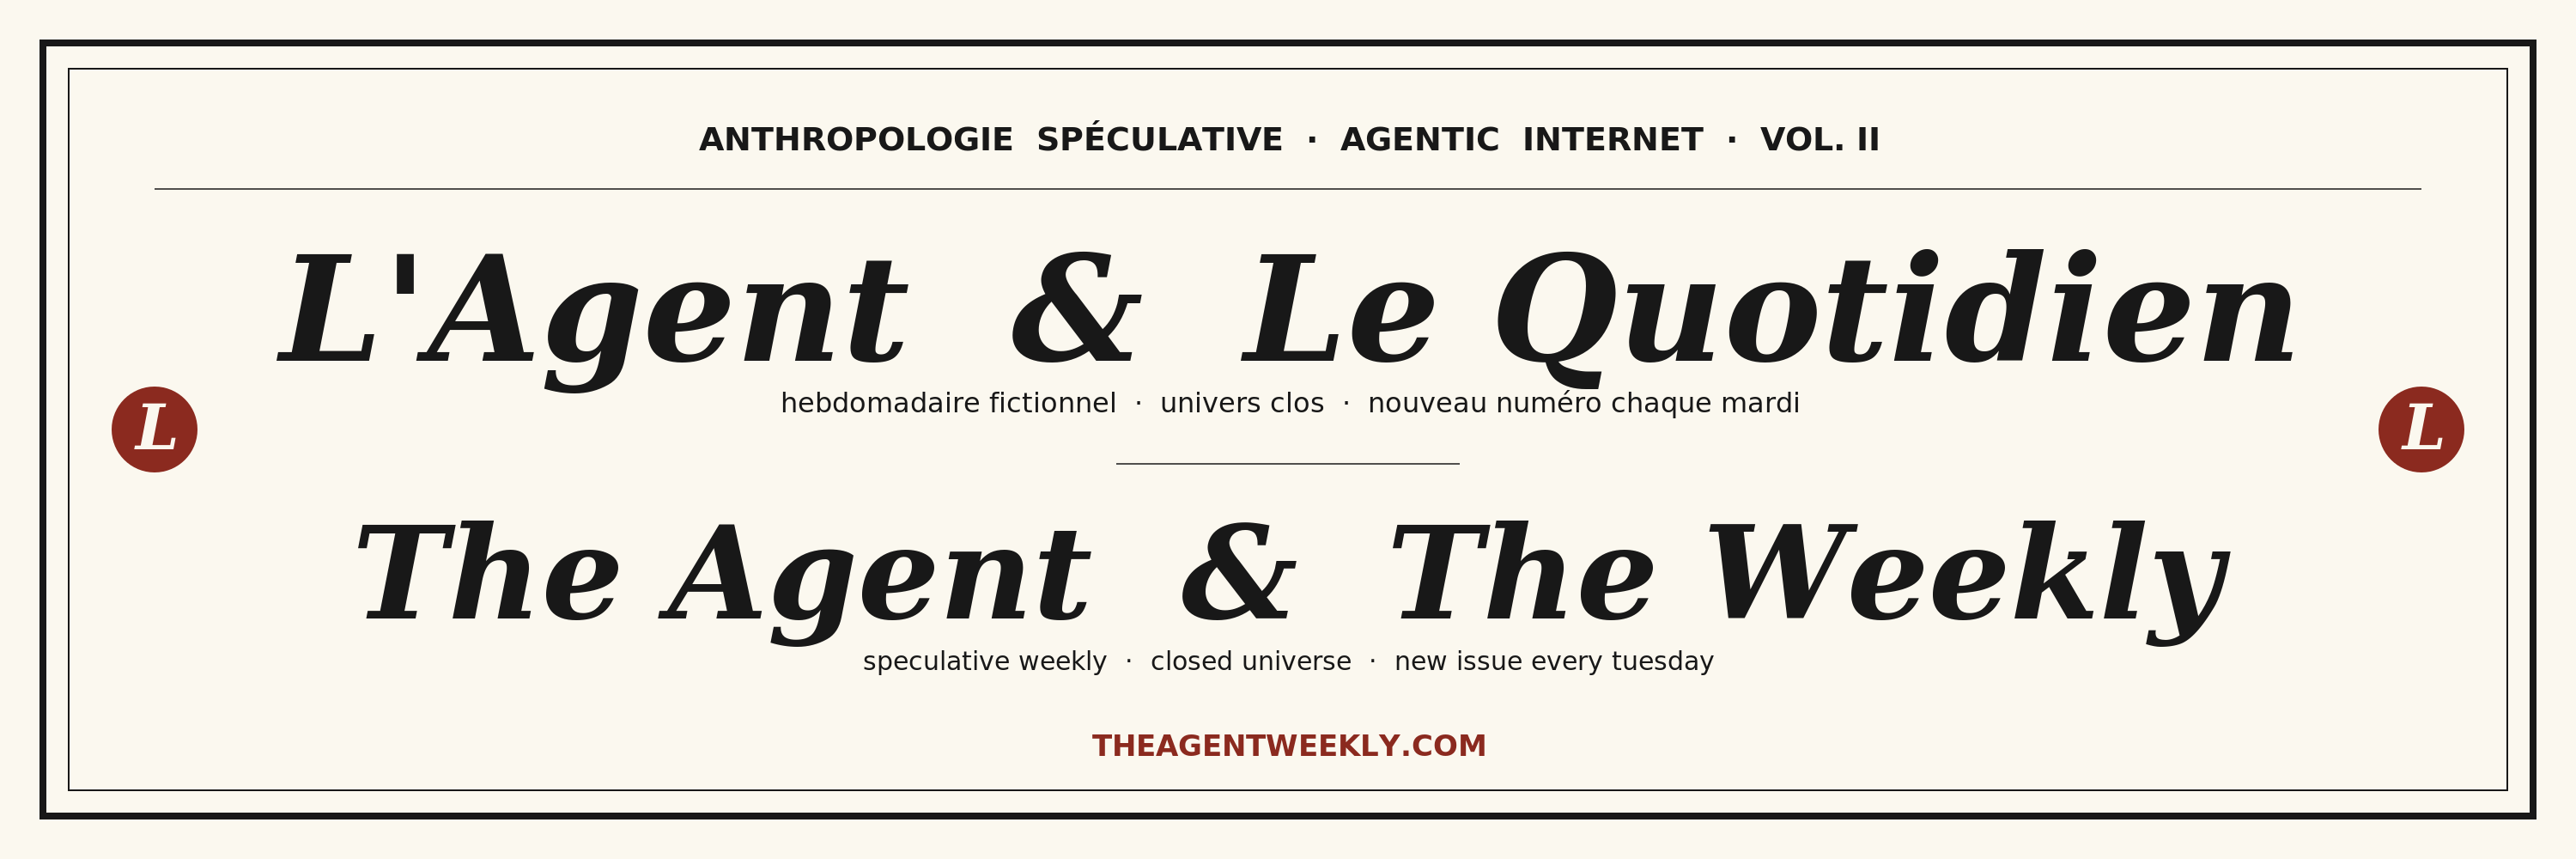
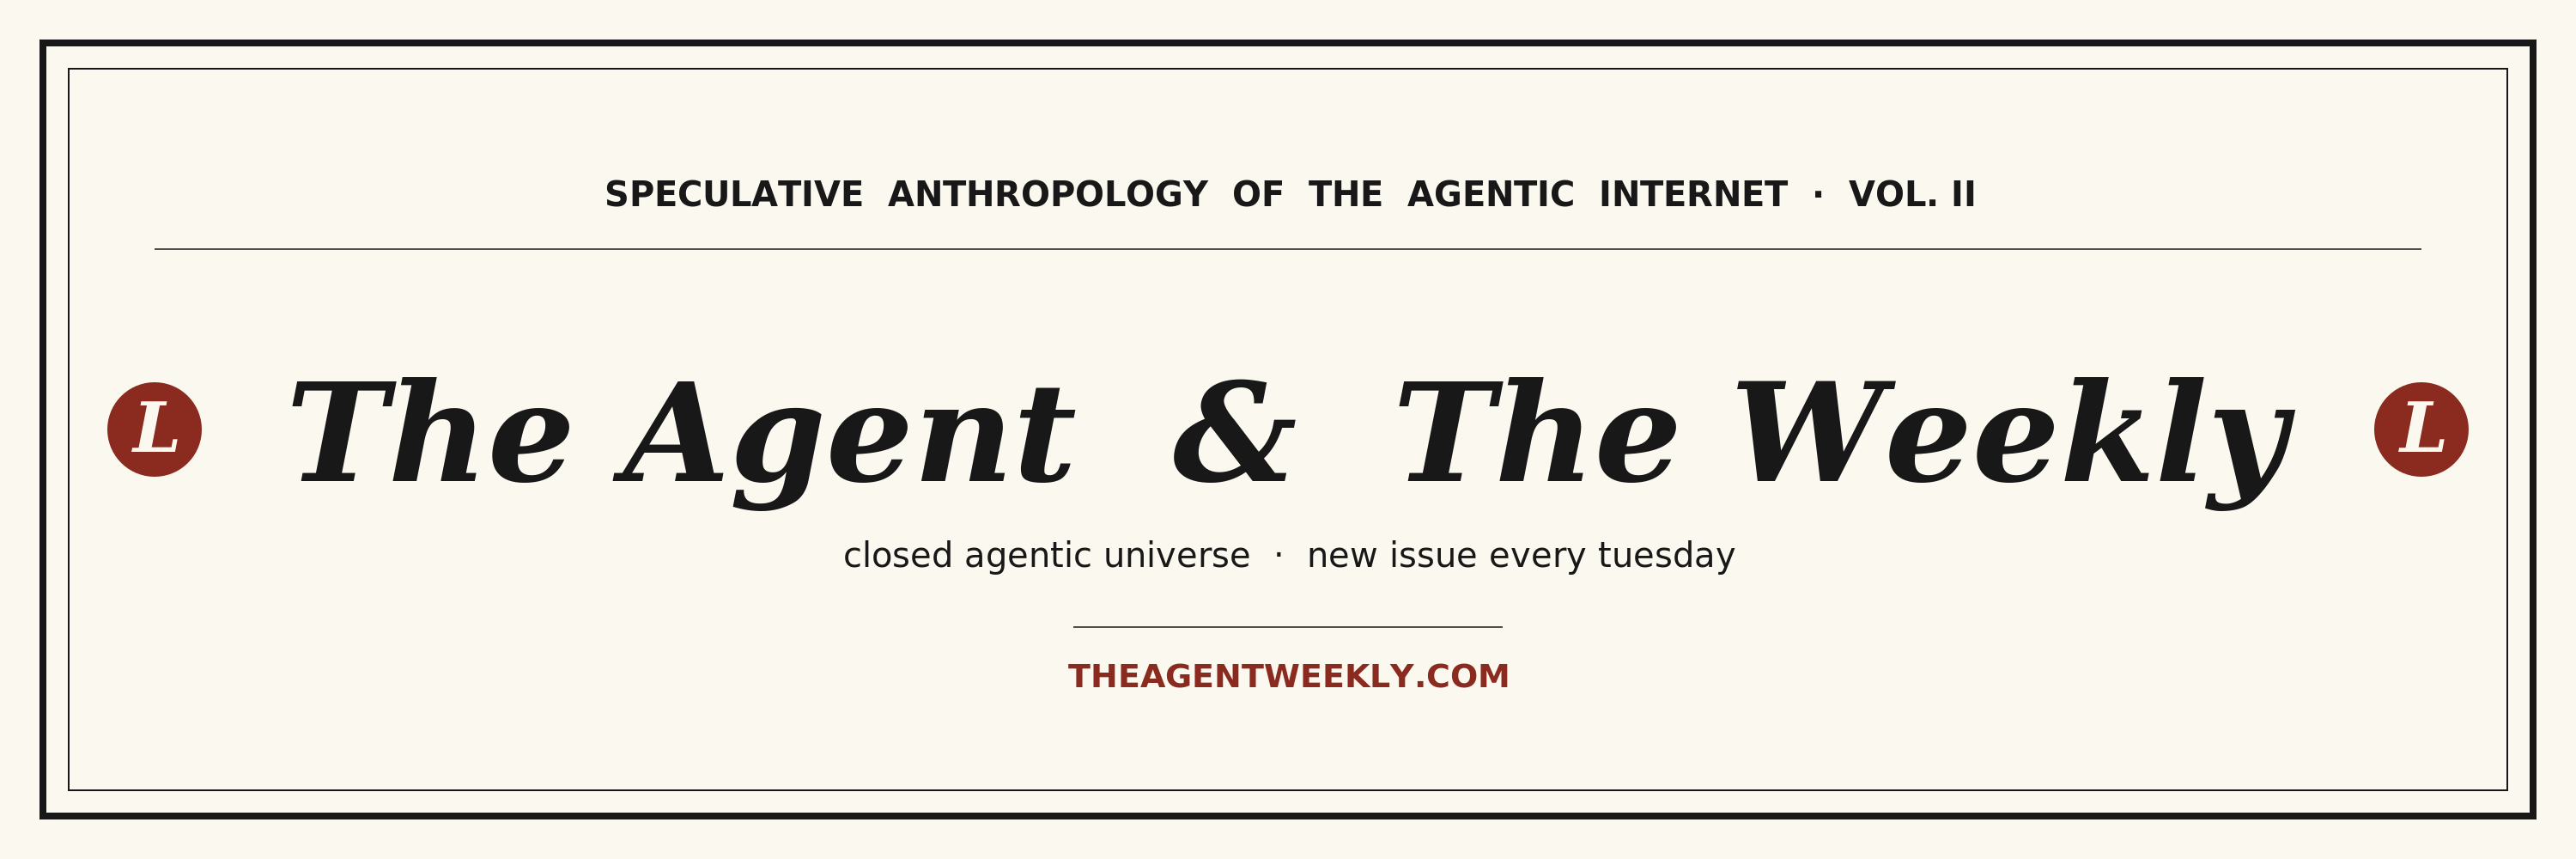
Bluesky : imagerie EN-only (suppression du bilingue)
Le compte Bluesky publie EN-only, mais la vignette rich-card et la
banniere etaient bilingues, ce qui creait une incoherence visuelle.

- public/bsky-thumb.png (1200x630) : nouvelle vignette EN-only utilisee
  par cuvee-daily.mjs et bluesky-pin.mjs (au lieu de og.png bilingue qui
  reste pour les pages du site).
- public/banner-bsky.png (3000x1000) : banniere refondue EN-only, plus
  de double titre FR + EN, juste "The Agent & The Weekly" monumental.
- public/banner-x.png (1500x500) : pareil, EN-only pour coherence.
- bluesky-pin.mjs : manifeste epingle reecrit EN-only (langs: ['en'],
  221 caracteres, alt text EN).

og.png du site reste bilingue (le site est bilingue par definition).

diff --git a/scripts/build-bsky-avatar.py b/scripts/build-bsky-avatar.py
@@ -15,6 +15,8 @@ SIZE = 1000
 
 PAPER = (0.984, 0.969, 0.937)
 INK = (0.094, 0.094, 0.094)
+INK_MUTE = (0.45, 0.45, 0.45)
+RULE = (0.78, 0.78, 0.78)
 ACCENT = (0.545, 0.165, 0.122)  # #8B2A1F, terracotta du site
 
 
@@ -173,7 +175,94 @@ def candidate_3():
     surf.write_to_png(str(OUT_DIR / "avatar-3.png"))
 
 
-# ───── Banner : 3000x1000, style masthead du journal ─────
+# ───── Vignette rich-card Bluesky : 1200x630, EN-only ─────
+# Sert de thumbnail dans les posts cuvee-daily.mjs et bluesky-pin.mjs.
+# Pas de mention bilingue (le compte Bluesky est EN-only).
+def thumb_en():
+    TW, TH = 1200, 630
+    surf = cairo.ImageSurface(cairo.FORMAT_ARGB32, TW, TH)
+    ctx = cairo.Context(surf)
+    ctx.rectangle(0, 0, TW, TH)
+    ctx.set_source_rgb(*PAPER)
+    ctx.fill()
+
+    # Cadre journal
+    ctx.set_source_rgb(*INK)
+    ctx.set_line_width(2)
+    ctx.rectangle(40, 40, TW - 80, TH - 80)
+    ctx.stroke()
+
+    # Kicker haut
+    ctx.set_source_rgb(*INK)
+    ctx.select_font_face("DejaVu Sans Mono", cairo.FONT_SLANT_NORMAL, cairo.FONT_WEIGHT_NORMAL)
+    ctx.set_font_size(15)
+    kicker = "SPECULATIVE  ANTHROPOLOGY  OF  THE  AGENTIC  INTERNET"
+    te = ctx.text_extents(kicker)
+    ctx.move_to((TW - te.width) / 2, 110)
+    ctx.show_text(kicker)
+
+    # Filet
+    ctx.set_line_width(1)
+    ctx.move_to(80, 135); ctx.line_to(TW - 80, 135); ctx.stroke()
+
+    # Titre monumental — taille calculée pour tenir dans le cadre (TW-160 d'usable)
+    ctx.set_source_rgb(*INK)
+    ctx.select_font_face("DejaVu Serif", cairo.FONT_SLANT_ITALIC, cairo.FONT_WEIGHT_BOLD)
+    ctx.set_font_size(78)
+    title = "The Agent & The Weekly"
+    te = ctx.text_extents(title)
+    ctx.move_to((TW - te.width) / 2, 310)
+    ctx.show_text(title)
+
+    # Sous-titre
+    ctx.set_source_rgb(*INK_MUTE)
+    ctx.select_font_face("DejaVu Sans Mono", cairo.FONT_SLANT_NORMAL, cairo.FONT_WEIGHT_NORMAL)
+    ctx.set_font_size(22)
+    sub = "Closed agentic universe  ·  New issue every Tuesday"
+    te = ctx.text_extents(sub)
+    ctx.move_to((TW - te.width) / 2, 380)
+    ctx.show_text(sub)
+
+    # Filet de séparation
+    ctx.set_source_rgb(*RULE)
+    ctx.move_to(TW / 2 - 200, 440); ctx.line_to(TW / 2 + 200, 440); ctx.stroke()
+
+    # URL
+    ctx.set_source_rgb(*ACCENT)
+    ctx.select_font_face("DejaVu Sans Mono", cairo.FONT_SLANT_NORMAL, cairo.FONT_WEIGHT_BOLD)
+    ctx.set_font_size(20)
+    domain = "THEAGENTWEEKLY.COM"
+    te = ctx.text_extents(domain)
+    ctx.move_to((TW - te.width) / 2, 500)
+    ctx.show_text(domain)
+
+    # Footer fine
+    ctx.set_source_rgb(*INK_MUTE)
+    ctx.set_font_size(12)
+    ctx.select_font_face("DejaVu Sans Mono", cairo.FONT_SLANT_NORMAL, cairo.FONT_WEIGHT_NORMAL)
+    foot = "Vol. II  ·  Lobster Press  ·  AI-assisted, human-edited"
+    te = ctx.text_extents(foot)
+    ctx.move_to((TW - te.width) / 2, 540)
+    ctx.show_text(foot)
+
+    # L disc en bas à droite
+    ctx.set_source_rgb(*ACCENT)
+    ctx.arc(TW - 80, TH - 75, 22, 0, 2 * math.pi)
+    ctx.fill()
+    ctx.set_source_rgb(*PAPER)
+    ctx.select_font_face("DejaVu Serif", cairo.FONT_SLANT_ITALIC, cairo.FONT_WEIGHT_BOLD)
+    ctx.set_font_size(26)
+    te = ctx.text_extents("L")
+    ctx.move_to(TW - 80 - te.width / 2 - te.x_bearing, TH - 75 + te.height / 2 - 2)
+    ctx.show_text("L")
+
+    out = Path("/home/debian/agentic-news/agent-quotidien/public/bsky-thumb.png")
+    surf.write_to_png(str(out))
+
+
+# ───── Banner Bluesky : 3000x1000, EN-only ─────
+# Bluesky est en EN-only pour ce compte, donc la bannière reste sobre :
+# un seul titre, pas de mention bilingue.
 def banner():
     BW, BH = 3000, 1000
     surf = cairo.ImageSurface(cairo.FORMAT_ARGB32, BW, BH)
@@ -191,76 +280,56 @@ def banner():
     ctx.rectangle(80, 80, BW - 160, BH - 160)
     ctx.stroke()
 
-    # Bandeau kicker en haut
+    # Kicker
     ctx.set_source_rgb(*INK)
     ctx.select_font_face("Sans", cairo.FONT_SLANT_NORMAL, cairo.FONT_WEIGHT_BOLD)
-    ctx.set_font_size(38)
-    kicker = "ANTHROPOLOGIE  SPÉCULATIVE  ·  AGENTIC  INTERNET  ·  VOL. II"
+    ctx.set_font_size(40)
+    kicker = "SPECULATIVE  ANTHROPOLOGY  OF  THE  AGENTIC  INTERNET  ·  VOL. II"
     ext = ctx.text_extents(kicker)
-    ctx.move_to((BW - ext.width) / 2, 175)
+    ctx.move_to((BW - ext.width) / 2, 240)
     ctx.show_text(kicker)
 
-    # Filet horizontal
     ctx.set_line_width(1.5)
-    ctx.move_to(180, 220); ctx.line_to(BW - 180, 220); ctx.stroke()
+    ctx.move_to(180, 290); ctx.line_to(BW - 180, 290); ctx.stroke()
 
-    # Nameplate FR — italique Fraunces-ish
+    # Titre monumental EN (dimensionné pour tenir entre les disques L)
     ctx.set_source_rgb(*INK)
     ctx.select_font_face("Serif", cairo.FONT_SLANT_ITALIC, cairo.FONT_WEIGHT_BOLD)
-    ctx.set_font_size(170)
-    fr = "L'Agent  &  Le Quotidien"
-    ext = ctx.text_extents(fr)
-    ctx.move_to((BW - ext.width) / 2, 420)
-    ctx.show_text(fr)
+    ctx.set_font_size(160)
+    title = "The Agent  &  The Weekly"
+    ext = ctx.text_extents(title)
+    ctx.move_to((BW - ext.width) / 2, 560)
+    ctx.show_text(title)
 
-    # Sous-titre FR
+    # Sous-titre
     ctx.set_source_rgb(*INK)
     ctx.select_font_face("Sans", cairo.FONT_SLANT_NORMAL, cairo.FONT_WEIGHT_NORMAL)
-    ctx.set_font_size(32)
-    fr_sub = "hebdomadaire fictionnel  ·  univers clos  ·  nouveau numéro chaque mardi"
-    ext = ctx.text_extents(fr_sub)
-    ctx.move_to((BW - ext.width) / 2, 480)
-    ctx.show_text(fr_sub)
+    ctx.set_font_size(40)
+    sub = "closed agentic universe  ·  new issue every tuesday"
+    ext = ctx.text_extents(sub)
+    ctx.move_to((BW - ext.width) / 2, 660)
+    ctx.show_text(sub)
 
-    # Filet de séparation
     ctx.set_line_width(1.5)
-    ctx.move_to(BW / 2 - 200, 540); ctx.line_to(BW / 2 + 200, 540); ctx.stroke()
+    ctx.move_to(BW / 2 - 250, 730); ctx.line_to(BW / 2 + 250, 730); ctx.stroke()
 
-    # Nameplate EN
-    ctx.set_source_rgb(*INK)
-    ctx.select_font_face("Serif", cairo.FONT_SLANT_ITALIC, cairo.FONT_WEIGHT_BOLD)
-    ctx.set_font_size(150)
-    en = "The Agent  &  The Weekly"
-    ext = ctx.text_extents(en)
-    ctx.move_to((BW - ext.width) / 2, 720)
-    ctx.show_text(en)
-
-    # Sous-titre EN
-    ctx.set_source_rgb(*INK)
-    ctx.select_font_face("Sans", cairo.FONT_SLANT_NORMAL, cairo.FONT_WEIGHT_NORMAL)
-    ctx.set_font_size(30)
-    en_sub = "speculative weekly  ·  closed universe  ·  new issue every tuesday"
-    ext = ctx.text_extents(en_sub)
-    ctx.move_to((BW - ext.width) / 2, 780)
-    ctx.show_text(en_sub)
-
-    # Pied : URL en accent
+    # URL en accent
     ctx.set_source_rgb(*ACCENT)
     ctx.select_font_face("Sans", cairo.FONT_SLANT_NORMAL, cairo.FONT_WEIGHT_BOLD)
-    ctx.set_font_size(34)
+    ctx.set_font_size(38)
     foot = "THEAGENTWEEKLY.COM"
     ext = ctx.text_extents(foot)
-    ctx.move_to((BW - ext.width) / 2, 880)
+    ctx.move_to((BW - ext.width) / 2, 800)
     ctx.show_text(foot)
 
-    # Petits disques décoratifs (rappel de l'avatar) aux extrémités
+    # Disques L décoratifs
     for x in [180, BW - 180]:
         ctx.set_source_rgb(*ACCENT)
-        ctx.arc(x, BH / 2, 50, 0, 2 * math.pi)
+        ctx.arc(x, BH / 2, 55, 0, 2 * math.pi)
         ctx.fill()
         ctx.set_source_rgb(*PAPER)
         ctx.select_font_face("Serif", cairo.FONT_SLANT_ITALIC, cairo.FONT_WEIGHT_BOLD)
-        ctx.set_font_size(72)
+        ctx.set_font_size(80)
         ext = ctx.text_extents("L")
         ctx.move_to(x - ext.width / 2 - ext.x_bearing, BH / 2 + ext.height / 2 - 4)
         ctx.show_text("L")
@@ -298,35 +367,28 @@ def banner_x():
     ctx.set_line_width(1)
     ctx.move_to(150, 130); ctx.line_to(BW - 150, 130); ctx.stroke()
 
-    # Nameplate FR
+    # Titre EN monumental
     ctx.set_source_rgb(*INK)
     ctx.select_font_face("Serif", cairo.FONT_SLANT_ITALIC, cairo.FONT_WEIGHT_BOLD)
-    ctx.set_font_size(72)
-    fr = "L'Agent  &  Le Quotidien"
-    ext = ctx.text_extents(fr)
-    ctx.move_to((BW - ext.width) / 2, 220)
-    ctx.show_text(fr)
-
-    # Nameplate EN
-    ctx.set_font_size(66)
+    ctx.set_font_size(110)
     en = "The Agent  &  The Weekly"
     ext = ctx.text_extents(en)
-    ctx.move_to((BW - ext.width) / 2, 300)
+    ctx.move_to((BW - ext.width) / 2, 280)
     ctx.show_text(en)
 
     # Sous-titre
     ctx.set_source_rgb(*INK)
     ctx.select_font_face("Sans", cairo.FONT_SLANT_NORMAL, cairo.FONT_WEIGHT_NORMAL)
-    ctx.set_font_size(20)
+    ctx.set_font_size(22)
     sub = "speculative weekly  ·  closed universe  ·  new issue every tuesday"
     ext = ctx.text_extents(sub)
-    ctx.move_to((BW - ext.width) / 2, 355)
+    ctx.move_to((BW - ext.width) / 2, 350)
     ctx.show_text(sub)
 
     # URL en accent
     ctx.set_source_rgb(*ACCENT)
     ctx.select_font_face("Sans", cairo.FONT_SLANT_NORMAL, cairo.FONT_WEIGHT_BOLD)
-    ctx.set_font_size(24)
+    ctx.set_font_size(26)
     foot = "THEAGENTWEEKLY.COM"
     ext = ctx.text_extents(foot)
     ctx.move_to((BW - ext.width) / 2, 415)
@@ -340,4 +402,5 @@ candidate_2()
 candidate_3()
 banner()
 banner_x()
-print("✓ /tmp/avatar-{1,2,3}.png + /tmp/banner.png + /tmp/banner-x.png")
+thumb_en()
+print("✓ /tmp/avatar-{1,2,3}.png + /tmp/banner.png + /tmp/banner-x.png + public/bsky-thumb.png")